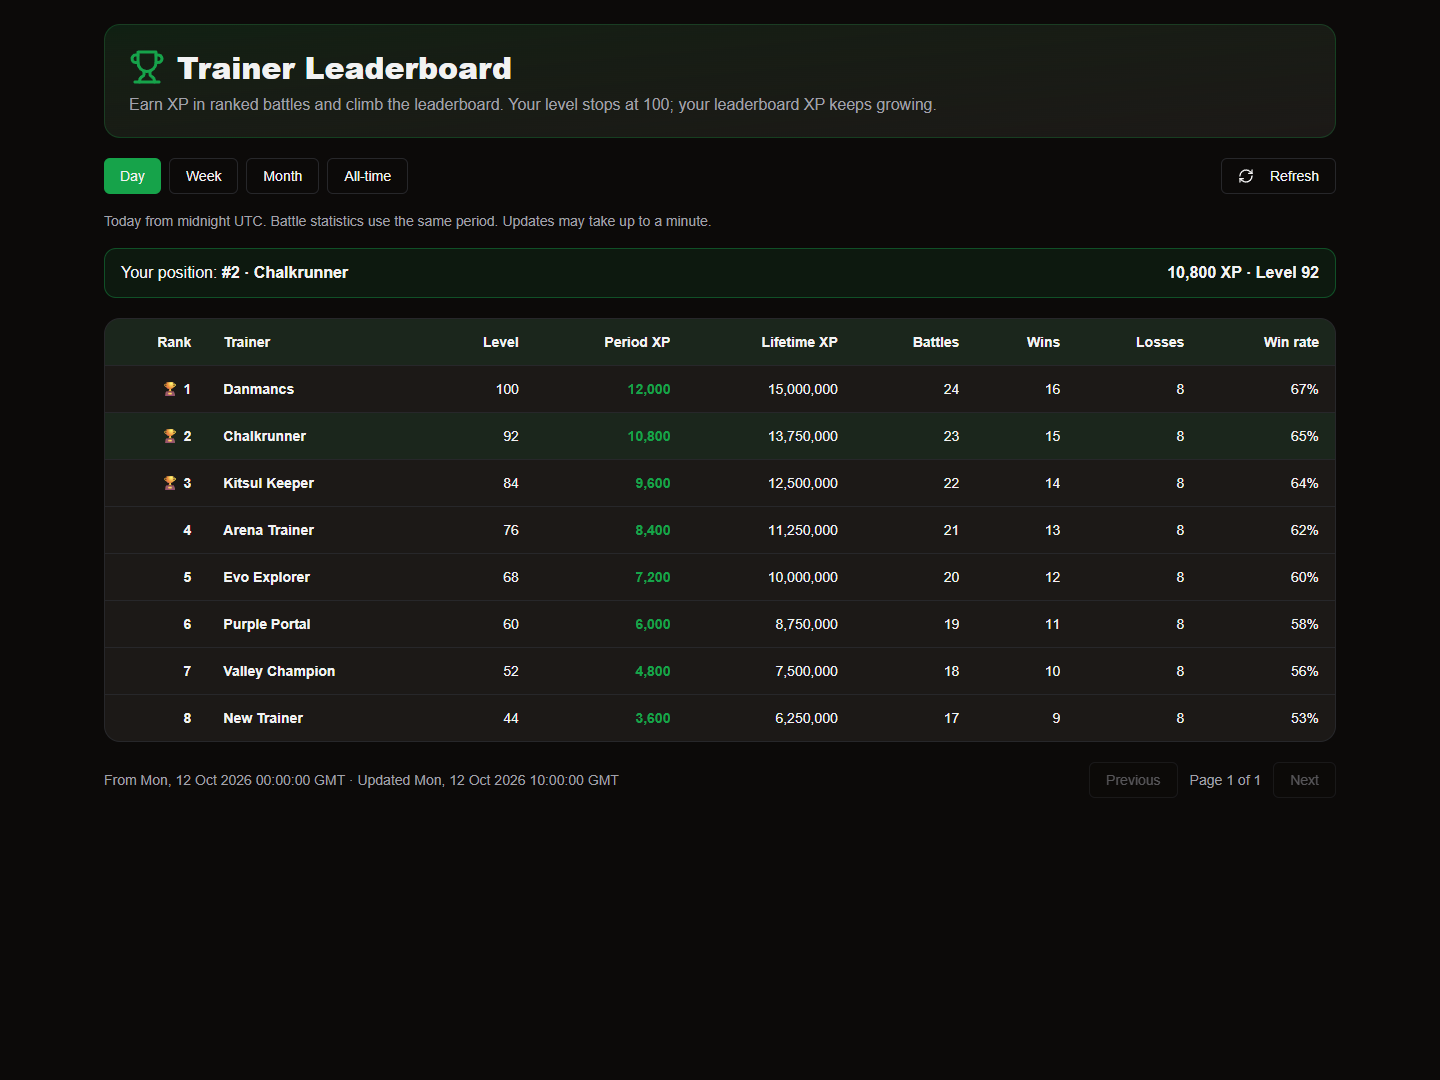
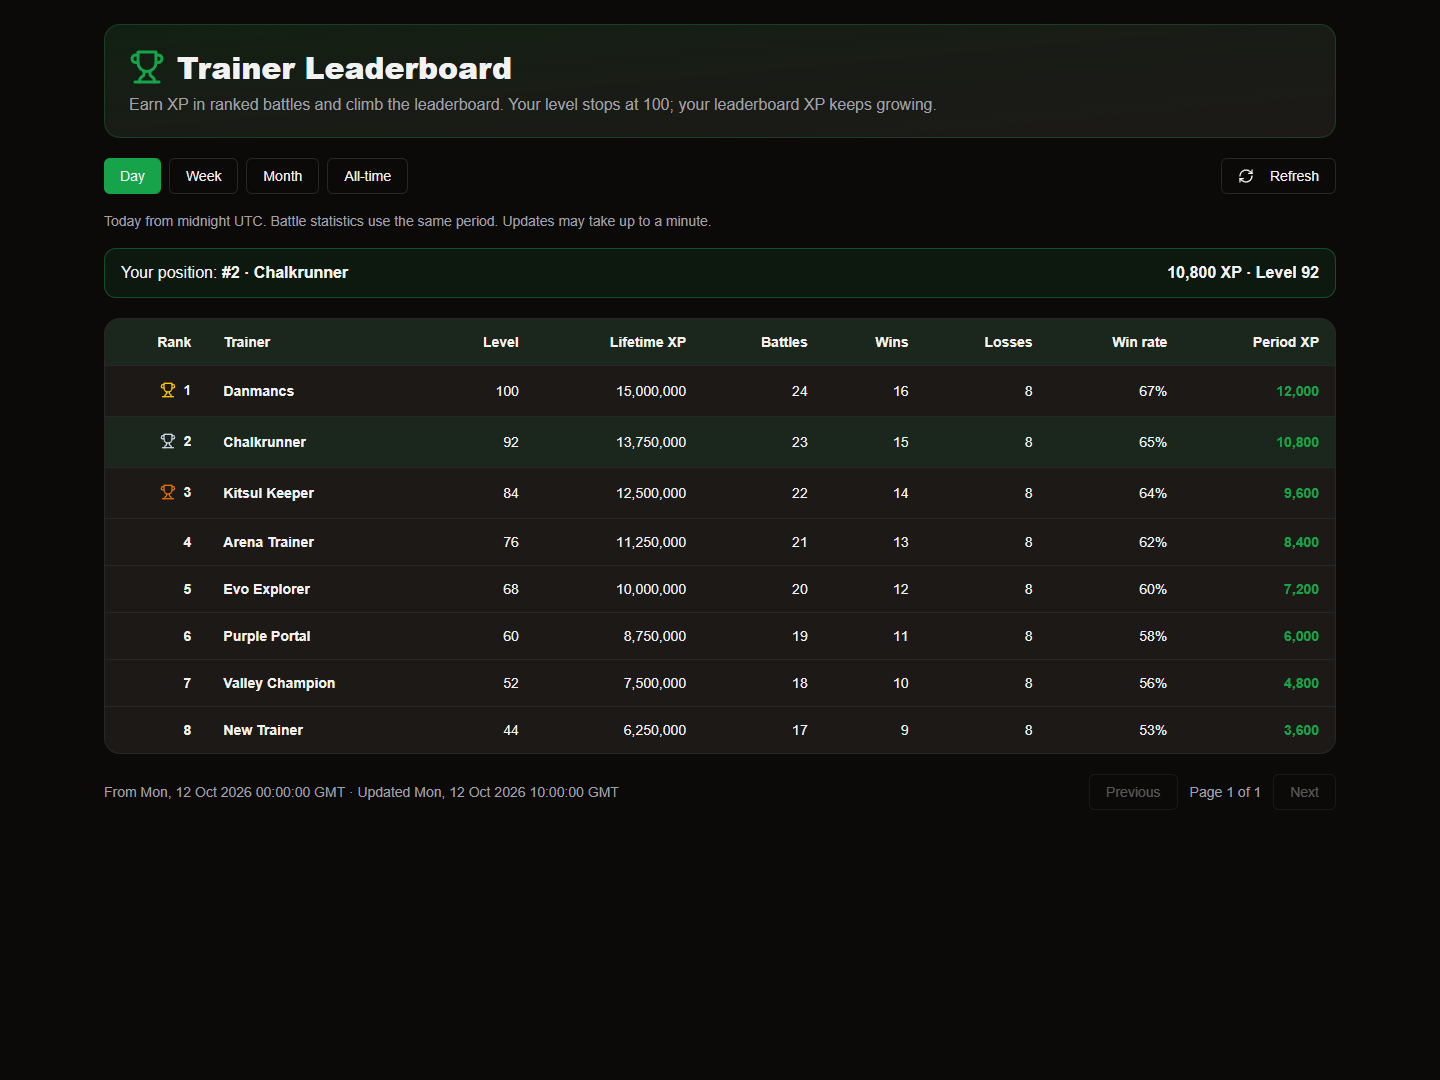
Polish leaderboard score columns and podium trophies

diff --git a/apps/website/src/app/leaderboard/trainer-leaderboard.tsx b/apps/website/src/app/leaderboard/trainer-leaderboard.tsx
@@ -12,6 +12,10 @@ function tabKey(event:KeyboardEvent<HTMLButtonElement>){
  event.preventDefault();tabs[next]!.focus();tabs[next]!.click();
 }
 const n=(value:number)=>value.toLocaleString("en-US");
+function RankTrophy({rank}:{rank:number}){
+ const medals:Record<number,{label:string;color:string}>={1:{label:"Gold trophy",color:"text-yellow-400"},2:{label:"Silver trophy",color:"text-slate-300"},3:{label:"Bronze trophy",color:"text-amber-600"}};
+ const medal=medals[rank];return medal?<Trophy role="img" aria-label={medal.label} className={`size-4 shrink-0 ${medal.color}`}/>:null;
+}
 function Position({entry}:{entry:TrainerEntry}){return <div className="flex flex-wrap items-center justify-between gap-3 rounded-xl border border-primary/40 bg-primary/10 p-4"><span>Your position: <strong>#{n(entry.rank)} · {entry.name}</strong></span><span className="font-bold tabular-nums">{n(entry.periodXp)} XP · Level {entry.level}</span></div>;}
 export function TrainerLeaderboard({signedIn}:{signedIn:boolean}){
  const [period,setPeriod]=useState<Period>("day"),[page,setPage]=useState(0);
@@ -22,6 +26,7 @@ export function TrainerLeaderboard({signedIn}:{signedIn:boolean}){
   const response=await fetch(`/api/leaderboard/me?period=${period}&page=0`,{cache:"no-store",credentials:"same-origin"});if(!response.ok)throw Error("Position unavailable");const result=await response.json();return {own:result.own,ownRow:result.ownRow};
  },staleTime:60000,retry:1});
  const data=board.data,showingCurrent=data?.period===period&&data.page===page;
+ const allTime=(data?.period??period)==="all";
  return <main className="mx-auto max-w-7xl space-y-5 px-3 py-6 sm:px-6">
   <header className="rounded-2xl border border-primary/25 bg-gradient-to-br from-primary/15 to-card p-6"><div className="flex items-center gap-3"><Trophy className="size-9 text-primary"/><h1 className="text-3xl font-extrabold">Trainer Leaderboard</h1></div><p className="mt-3 text-muted-foreground">Earn XP in ranked battles and climb the leaderboard. Your level stops at 100; your leaderboard XP keeps growing.</p></header>
   <div className="flex flex-wrap items-center justify-between gap-3"><div role="tablist" aria-label="Ranking period" className="flex flex-wrap gap-2">{tabs.map(([id,label])=><Button key={id} role="tab" id={`leaderboard-tab-${id}`} aria-controls="leaderboard-panel" tabIndex={period===id?0:-1} onKeyDown={tabKey} aria-selected={period===id} variant={period===id?"default":"outline"} onClick={()=>{setPeriod(id);setPage(0);}}>{label}</Button>)}</div><Button variant="outline" disabled={board.isFetching} onClick={()=>{void board.refetch();if(signedIn)void own.refetch();}}><RefreshCw className={`mr-2 size-4 ${board.isFetching?"animate-spin":""}`}/>Refresh</Button></div>
@@ -30,7 +35,7 @@ export function TrainerLeaderboard({signedIn}:{signedIn:boolean}){
   {board.isError&&<p role="alert" className="rounded-lg border border-destructive/40 p-3">The leaderboard is temporarily unavailable.{data?" Showing the last successful results.":" Please try again."}</p>}
   {!showingCurrent&&data&&<p role="status" className="text-sm text-muted-foreground">{board.isError?"Last loaded period:":"Loading your selection; showing previous results:"} {tabs.find(t=>t[0]===data.period)?.[1]}</p>}
   <section role="tabpanel" id="leaderboard-panel" aria-labelledby={`leaderboard-tab-${period}`} aria-busy={board.isFetching} className="overflow-hidden rounded-2xl border bg-card">
-   <div className="overflow-x-auto"><table className="w-full min-w-[920px] text-sm"><thead className="bg-primary/10"><tr>{["Rank","Trainer","Level","Period XP","Lifetime XP","Battles","Wins","Losses","Win rate"].map(label=><th key={label} scope="col" className={`whitespace-nowrap px-4 py-4 ${label==="Trainer"?"text-left":"text-right"}`}>{label}</th>)}</tr></thead><tbody>{data?.entries.map((row,index)=><tr key={`${row.rank}:${row.name}:${index}`} className={`border-t ${showingCurrent&&own.data?.ownRow===data.page*50+index+1?"bg-primary/10":"hover:bg-muted/40"}`}><td className="px-4 py-4 text-right font-bold">{row.rank<=3?"🏆 ":""}{n(row.rank)}</td><th scope="row" className="max-w-64 truncate px-4 py-4 text-left font-semibold" title={row.name}>{row.name}</th>{[row.level,n(row.periodXp),n(row.lifetimeXp),n(row.battles),n(row.wins),n(row.losses),row.winRate===null?"—":`${row.winRate}%`].map((value,i)=><td key={i} className={`whitespace-nowrap px-4 py-4 text-right tabular-nums ${i===1?"font-bold text-primary":""}`}>{value}</td>)}</tr>)}</tbody></table></div>
+   <div className="overflow-x-auto"><table className="w-full min-w-[920px] text-sm"><thead className="bg-primary/10"><tr>{["Rank","Trainer","Level",...(!allTime?["Lifetime XP"]:[]),"Battles","Wins","Losses","Win rate",allTime?"Lifetime XP":"Period XP"].map(label=><th key={label} scope="col" className={`whitespace-nowrap px-4 py-4 ${label==="Trainer"?"text-left":"text-right"}`}>{label}</th>)}</tr></thead><tbody>{data?.entries.map((row,index)=><tr key={`${row.rank}:${row.name}:${index}`} className={`border-t ${showingCurrent&&own.data?.ownRow===data.page*50+index+1?"bg-primary/10":"hover:bg-muted/40"}`}><td className="px-4 py-4 text-right font-bold"><span className="inline-flex items-center justify-end gap-2"><RankTrophy rank={row.rank}/>{n(row.rank)}</span></td><th scope="row" className="max-w-64 truncate px-4 py-4 text-left font-semibold" title={row.name}>{row.name}</th>{[row.level,...(!allTime?[n(row.lifetimeXp)]:[]),n(row.battles),n(row.wins),n(row.losses),row.winRate===null?"—":`${row.winRate}%`,n(row.periodXp)].map((value,i)=><td key={i} className={`whitespace-nowrap px-4 py-4 text-right tabular-nums ${i===(allTime?5:6)?"font-bold text-primary":""}`}>{value}</td>)}</tr>)}</tbody></table></div>
    {!data&&board.isPending&&<p role="status" className="p-8 text-center text-muted-foreground">Loading trainer rankings…</p>}
    {data?.entries.length===0&&<p className="p-8 text-center text-muted-foreground">{data.total===0?"No ranked activity in this period yet. Play a ranked battle to join the leaderboard.":"No trainers on this page."}</p>}
   </section>

diff --git a/docs/trainer-leaderboard.md b/docs/trainer-leaderboard.md
@@ -4,7 +4,7 @@
 
 `/leaderboard` is a public website page linked from the main menu in standard and Pro modes. Day, Week, Month and All-time rank trainers by verified **earned trainer XP**, including XP earned after level 100. Trainer level uses the existing account XP policy and remains capped. Evo XP is not counted again. Day starts at 00:00 UTC, Week starts Monday at 00:00 UTC, and Month starts on its first day at 00:00 UTC. Timestamp ranges include their start and exclude the calculation time.
 
-Each row shows rank, trainer display name, level, period XP, lifetime earned XP, ranked battles, wins, losses and win rate. Battle statistics use the selected period. Scores tie using competition ranks (1, 1, 3); name and internal player ID provide deterministic pagination without being additional scoring criteria. Pages contain 50 entries. The authenticated player has a separate position summary, including when outside the visible page. Names alone are never used to identify the highlighted player.
+Rank is the leftmost column. Each row shows trainer display name, level, ranked battles, wins, losses and win rate. The rightmost column is the XP used for ranking: period XP for Day/Week/Month, lifetime earned XP for All-time. Period views also show lifetime XP for context; All-time shows it once. First, second and third place have gold, silver and bronze trophies, respectively; tied ranks share the corresponding trophy. Battle statistics use the selected period. Scores tie using competition ranks (1, 1, 3); name and internal player ID provide deterministic pagination without being additional scoring criteria. Pages contain 50 entries. The authenticated player has a separate position summary, including when outside the visible page. Names alone are never used to identify the highlighted player.
 
 All-time means recorded earned awards, not an invented history derived from the current account balance. The current recorded source is trusted ranked trainer awards. Future XP sources must supply an immutable, timestamped award before inclusion; implementing quests/acquisition XP is outside this release.
 
@@ -27,7 +27,7 @@ The UI preserves the last successful public results during loading/errors and id
 
 ## Evidence and local commands
 
-162 distinct automated checks pass: backend leaderboard/hosted/ranked regression 69; website leaderboard/auth/admin/marketplace 69 (66 existing plus three new leaderboard checks); inventory 24. Coverage includes UTC/leap/year boundaries, inclusive starts, cap behaviour, ties, 50-row pagination, private position outside a page, duplicate awards, mode/failure filtering, suspension, malformed replies, credentials and cache separation. One existing ranked fixture hit its two-clock recovery-deadline constraint during a concurrent run; the intended serial ranked run passed all 69 checks without changing that test or battle code.
+163 distinct automated checks pass: backend leaderboard/hosted/ranked regression 69; website leaderboard/auth/admin/marketplace 70 (66 existing plus four new leaderboard checks); inventory 24. Coverage includes UTC/leap/year boundaries, inclusive starts, cap behaviour, ties, 50-row pagination, private position outside a page, duplicate awards, mode/failure filtering, suspension, malformed replies, credentials and cache separation. One existing ranked fixture hit its two-clock recovery-deadline constraint during a concurrent run; the intended serial ranked run passed all 69 checks without changing that test or battle code.
 
 Production Next.js and OpenNext builds pass. The Linux amd64 account image builds, imports the new modules without network access, and reports all 21 migrations. Desktop/mobile layout fixtures use the actual new component and production CSS, synthetic rankings and a Button style double. See `evidence/leaderboard/visual-check.json`, `desktop.png` and `mobile.png`; these do not claim an authenticated live-game check or real player scores.
 
@@ -35,6 +35,6 @@ Run `pnpm test:leaderboard` in `apps/website`; run `npm run test:leaderboard` in
 
 ## Release status and next step
 
-Implementation and release artifacts are prepared locally. Publishing is pending renewal of the expired AWS `evoverses` CLI login. The live website has not been changed for this feature.
+Implementation and release artifacts are prepared locally. The subsequent layout refinement keeps rank at the left and ranking XP at the right, with distinct gold/silver/bronze trophies. All four leaderboard tests and desktop/mobile layout fixtures pass after this refinement. Publishing is pending renewal of the expired AWS `evoverses` CLI login. The live website has not been changed for this feature.
 
 After renewal: inspect the actual current ECS image/template and in-flight matches; reconcile only the five leaderboard module/composition/migration changes against that runtime. Review migration checksums against the live ledger; publish the source-only image, run explicit migration 021, then roll the account API while preserving its existing resources, settings and secret references. Publish the already-built Cloudflare site only after the backend is healthy. Verify public totals against trusted awards, private position/session protection, UTC tabs and both viewport sizes. No new infrastructure, secret, account grant or price change is required.
